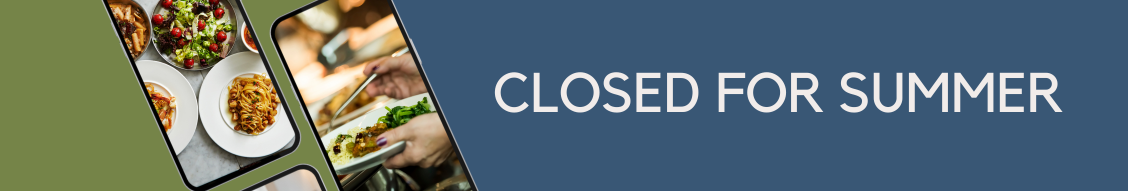
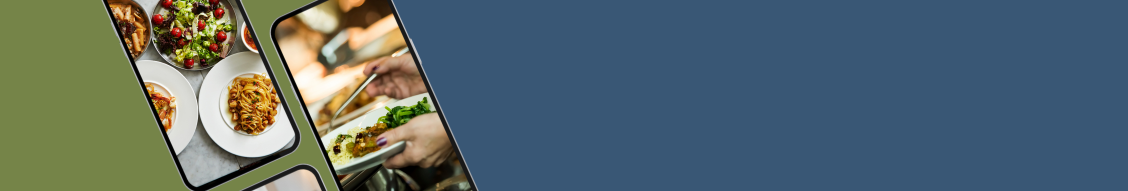
Open screen

Changed region(s): [[0.4344, 0.3665, 0.9619, 0.6021]]

diff --git a/style.css b/style.css
@@ -386,6 +386,7 @@
     /* padding-bottom: 2em;
     padding-top: 2em; */
   }
+
   #summerhero{
     background-image: url(content/ClosedForSummer.png);
     background-repeat: no-repeat;
@@ -394,6 +395,18 @@
     height: 300px;
     padding-bottom: 1em;
     margin-top:2em;
+    
+  }
+
+  /* Edited by Morgan */
+  #summerhero h1 {
+    max-width: 40%;
+    text-size-adjust: 100px;
+    color: #707f42;
+    -webkit-text-stroke: .3px #F3F1DF;
+    padding-top: 1.25em;
+    padding-left: 65%;
+    font-size: 200%;
   }
 }
 

diff --git a/index.html b/index.html
@@ -119,7 +119,10 @@
     </form>
 </nav>
 <main>
-    <div id="summerhero"></div>
+    <div id="summerhero">
+        <h1>OPENING</h1>
+        <h1>SEPTEMBER</h1>
+        <h1>10TH</h1></div>
     <div class="menu-container">
             <div class="menu">
                 <h1 class="menuCard" style="text-align:center;">TUESDAY</h1>
